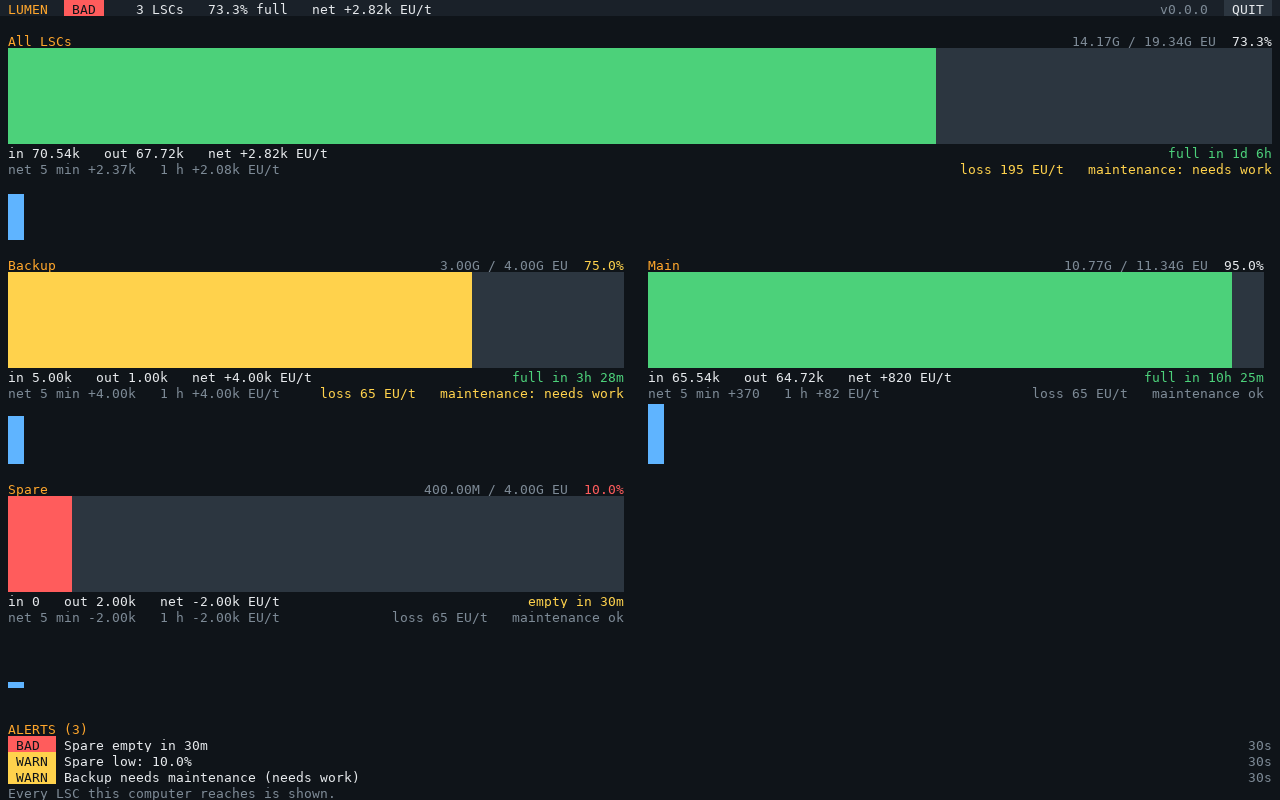
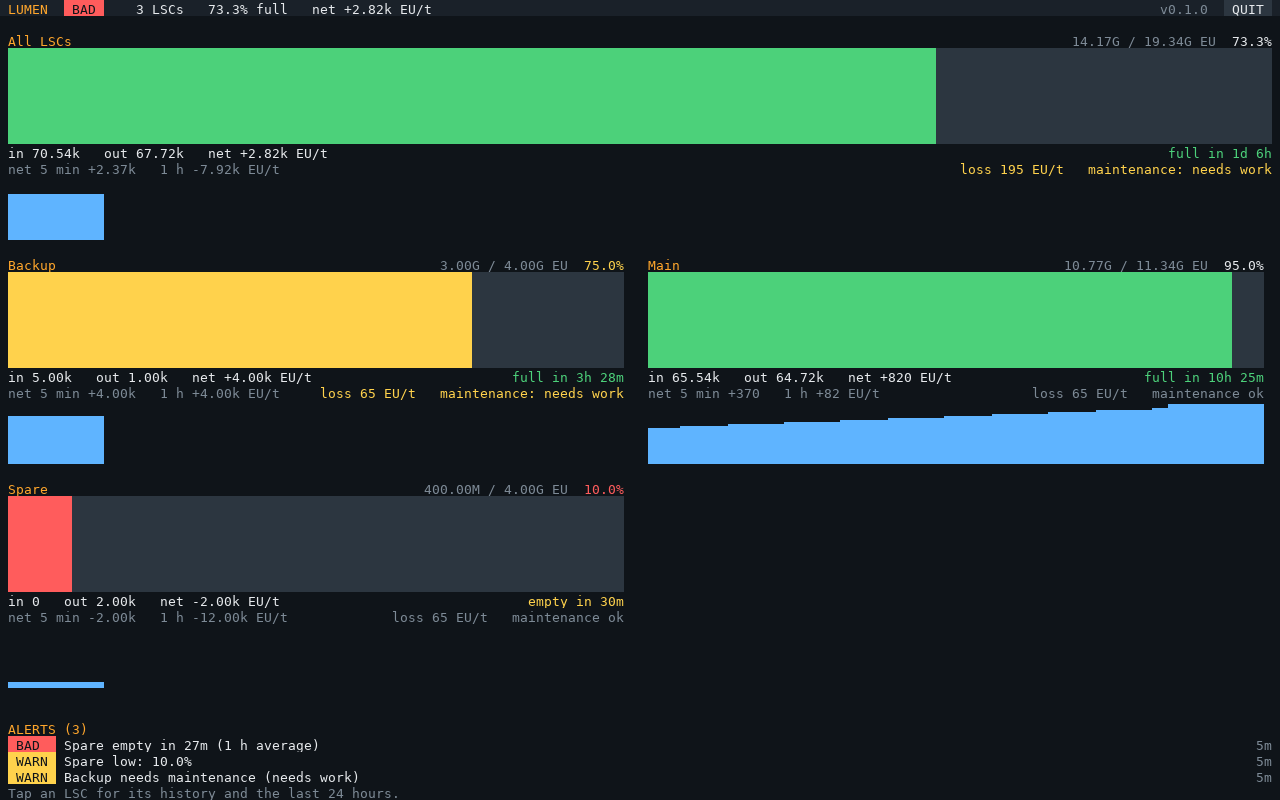
Docs: switches, sources, the LSC page, alerts and their waits, lumen-setup

diff --git a/docs/configuration.md b/docs/configuration.md
@@ -1,8 +1,9 @@
 # Configuration
 
-`/home/lumen.cfg` is optional: anything you leave out takes its default. Start from
-[`config/lumen.example.cfg`](../config/lumen.example.cfg) (installed as `/home/lumen.example.cfg`). It's a
-Lua file returning a table; `lumen` checks it at start and names any setting that's wrong.
+`/home/lumen.cfg` is optional: anything you leave out takes its default. **`lumen-setup`** writes it (and keeps
+what it doesn't ask about); [`config/lumen.example.cfg`](../config/lumen.example.cfg) (installed as
+`/home/lumen.example.cfg`) shows every setting. It's a Lua file returning a table; `lumen` checks it at start and
+names any setting that's wrong.
 
 | Setting | Default | Meaning |
 |---|---|---|
@@ -13,25 +14,86 @@ Lua file returning a table; `lumen` checks it at start and names any setting tha
 | `criticalFill` | `10` | Bad below this % full |
 | `drainWarnHours` | `4` | Warn when an LSC is draining and will be empty within this many hours |
 | `drainBadHours` | `1` | Bad when it will be empty within this many hours |
-| `drainAverage` | `"1h"` | Which net the drain alerts use: the LSC's `"5s"`, `"5m"` or `"1h"` average. The 1 hour average rides out generators that cycle (a vacuum reactor's off cycle); `"5s"` warns soonest but on every dip |
+| `drainAverage` | `"1h"` | For LSCs without a [switch](#switches): which net the drain alerts use, the LSC's `"5s"`, `"5m"` or `"1h"` average. The 1 hour average rides out short dips; `"5s"` warns soonest but on every dip |
+| `inputDrop` | `nil` | Warn when an LSC's input over 5 minutes is this % below its hour's (a generator stopped). Not while a switch is off or switched in the last hour. Leave `nil` if generators cycle by themselves |
+| `maxPassiveLoss` | `nil` | Warn when an LSC's passive loss is above this many EU/t |
+| `heatWarn`, `heatBad` | `25`, `50` | Warn / bad when an IC2 reactor's heat is at this % of its max |
 | `beep` | `true` | Beep once when a bad alert appears (or a warning becomes bad) |
 | `lensPort` | `nil` | Report to LENS on this port (LENS's default is `4243`). `nil` means no reporting. Needs a network card |
 | `lensNode` | `"lumen"` | This computer's name in LENS. Give each LUMEN computer its own |
 | `lensToken` | `nil` | The LENS hub's token, if it has one |
+| `sources` | `{}` | Generators to show, [below](#sources) |
+| `control` | `{}` | Switches, [below](#switches) |
+
+## Sources
+
+GT generators show under POWER when listed here; IC2 reactors show by themselves (list one to name it).
+
+```lua
+sources = {
+  { address = "a1b2c3d4", name = "LFTR", alwaysOn = true },
+  { address = "eeee0000", name = "Vac nuke" },
+},
+```
+
+| Key | Meaning |
+|---|---|
+| `address` | The start of its adapter's component address (`lumen-discover` lists them) |
+| `name` | Its name on screen, in alerts and in LENS |
+| `alwaysOn` | Warn when it hasn't run for 5 minutes (not while a switch has it off) |
+
+What LUMEN reads: a GT generator's `isMachineActive()`, recipe progress, and from its sensor lines its EU/t and
+maintenance problems when they say; a reactor's heat and EU/t. [Architecture](architecture.md#whats-verified-in-game)
+says which of these have been seen in game.
+
+## Switches
+
+How switches behave: [setup](setup.md#switches).
+
+```lua
+control = {
+  { name = "Vac nuke", redstone = "5e1f0000", side = "north", onBelow = 30, offAbove = 90, source = "Vac nuke" },
+  { name = "LFTR", machine = "a1b2c3d4", lsc = "Main", onBelow = 50, offAbove = 95 },
+},
+```
+
+| Key | Default | Meaning |
+|---|---|---|
+| `name` | | Its name on screen, in alerts and in LENS |
+| `redstone` | | The start of a Redstone I/O block's or card's address: switch with a signal. Or: |
+| `machine` | | The start of a GT machine's address: switch its work (never an LSC) |
+| `side` | | Redstone: `"bottom"`, `"top"`, `"north"`, `"south"`, `"west"`, `"east"` (or 0-5) |
+| `invert` | `false` | Redstone: a signal means off |
+| `strength` | `15` | Redstone: the signal's strength when on |
+| `onBelow`, `offAbove` | | On below this % full, off above this % |
+| `lsc` | all LSCs | Follow one LSC, by name |
+| `source` | | The source it switches: warns when on and it isn't running, or off and it is |
+| `minSwitch` | `60` | Seconds to wait after switching before switching again |
 
 ## Alerts
 
-| Alert | Level |
-|---|---|
-| An LSC can't be read (unloaded chunk, broken adapter) | bad |
-| Below `criticalFill` % / below `lowFill` % | bad / warn |
-| Draining at the `drainAverage` net, and empty within `drainBadHours` / `drainWarnHours` | bad / warn |
-| Maintenance needed | warn |
-| No LSC found | warn |
+Each alert must last a while before it's raised, so a blip doesn't set one off, and stays a minute after the
+problem goes.
 
-The time to empty on screen is the LSC's own figure, which follows the last few seconds. When the LSC
-doesn't give one, LUMEN works it out from the 5-minute net. The drain alerts use the `drainAverage` net
-instead, so a short dip doesn't raise them; the low-fill alerts still catch a real shortage.
+| Alert | Level | Raised after |
+|---|---|---|
+| An LSC can't be read (unloaded chunk, broken adapter) | bad | 15 s |
+| Below `criticalFill` % / below `lowFill` % | bad / warn | 30 s |
+| Empty within `drainBadHours` / `drainWarnHours` (below) | bad / warn | 5 min |
+| An LSC needs maintenance | warn | at once |
+| Input down by `inputDrop` % (when set) | warn | 5 min |
+| Passive loss above `maxPassiveLoss` (when set) | warn | 1 min |
+| A reactor at `heatBad` % / `heatWarn` % of its max heat | bad / warn | at once |
+| A source can't be read / needs maintenance | warn | 30 s / 1 min |
+| An `alwaysOn` source stopped | warn | 5 min |
+| A switch can't be found or switched | bad | 15 s |
+| A switch is on but its source isn't running, or off but it is | warn | 5 min |
+| No LSC found | warn | at once |
+
+**Empty within:** for an LSC with switches (its own, or ones following all LSCs), nothing while one is off in
+AUTO (the generators come on at its mark); once all have been on 10 minutes, the rate since they came on. A
+switch set OFF by hand doesn't count. For other LSCs, the `drainAverage` net. The time to empty on the panel is
+the LSC's own figure, which follows the last few seconds.
 
 ## Reporting to LENS
 
@@ -47,20 +109,32 @@ With `lensPort` set, LUMEN sends LENS a snapshot after every reading, using the 
 | `lumen_fill_ratio` | 0..1 | Stored / capacity |
 | `lumen_input_eut`, `lumen_output_eut`, `lumen_net_eut` | EU/t | In, out, and in minus out: the LSC's 5-second averages |
 | `lumen_net_5m_eut`, `lumen_net_1h_eut` | EU/t | In minus out over 5 minutes, and over 1 hour |
-| `lumen_drain_seconds` | s | Time until empty at the `drainAverage` net (what the drain alerts use); nothing while that net isn't negative |
+| `lumen_drain_seconds` | s | Time until empty, as the drain alerts judge it ([above](#alerts)); nothing while not draining, or on standby |
 | `lumen_full_seconds` / `lumen_empty_seconds` | s | Time until full or empty: the LSC's own figure, which follows the last few seconds |
+| `lumen_in_24h_eu`, `lumen_out_24h_eu` | EU | In and out over the last 24 hours |
+
+Sources have a `source` label and switches a `switch` label:
+
+| Metric | Unit | Meaning |
+|---|---|---|
+| `lumen_source_up` | | 1 when the source can be read, else 0 |
+| `lumen_source_active` | | 1 while it runs |
+| `lumen_source_output_eut` | EU/t | What it makes (when it says) |
+| `lumen_reactor_heat_ratio` | 0..1 | A reactor's heat over its max |
+| `lumen_switch_on` | | 1 while the switch has its generators on |
+| `lumen_switch_auto` | | 1 on AUTO, 0 when set by hand |
 
 LUMEN's alerts go to LENS too, and its health is the worst alert's level.
 
-A power bar for the LENS HUD, and a panel, in `/home/lens-hub.cfg`:
+In `/home/lens-hub.cfg` (LENS 0.3), a panel and HUD lines; [LENS's examples](https://github.com/aharabedian/lens/blob/main/docs/examples.md)
+have more:
 
 ```lua
-hud = { bars = {
-  { label = "Power", value = "lumen_stored_eu / lumen_capacity_eu", percent = true, warnBelow = 0.25, badBelow = 0.1 },
-} },
 panels = {
-  { label = "Power stored", value = "lumen_stored_eu / lumen_capacity_eu", percent = true, warnBelow = 0.25, badBelow = 0.1 },
-  { label = "Net EU/t", value = "lumen_net_eut", unit = "EU/t" },
+  { label = "Power", value = "sum(lumen_stored_eu) / sum(lumen_capacity_eu)", format = "percent",
+    warnBelow = 0.25, badBelow = 0.1 },
+  { label = "Vac nuke", text = "{h} heat", values = { h = 'max(lumen_reactor_heat_ratio{source="Vac nuke"})' },
+    format = "percent", status = { { "good", 'sum(lumen_switch_on{switch="Vac nuke"}) > 0' } } },
 },
 ```
 

diff --git a/docs/architecture.md b/docs/architecture.md
@@ -5,6 +5,7 @@
 | Program (`src/`) | Does |
 |---|---|
 | `lumen.lua` | The power screen. The event loop only: the work is in `lumen.app` |
+| `lumen-setup.lua` | Guided setup: writes `/home/lumen.cfg` and `.shrc` (`lumen.setup.*`) |
 | `lumen-discover.lua` | Lists components with every method and doc; `--read` shows what the read-only ones return (`lumen.discover`) |
 | `lumen-update.lua` | Installs and updates from GitHub what `manifest.lua` lists. Self-contained: it installs the modules |
 
@@ -15,16 +16,22 @@ path, forget cached `lumen.*` modules, and say "run lumen-update" if they're mis
 
 | Module | Does |
 |---|---|
-| `lumen.app` | The program's state: reads every `interval`, alerts, beep, history (30 s samples), redraw, LENS |
+| `lumen.app` | The program's state: every `interval`, reads LSCs and sources, runs the switches, history, alerts, beep, redraw, LENS; saves state every 5 minutes and on exit |
 | `lumen.power` | Finds LSCs (`gt_machine` whose `getName()` is `multimachine.supercapacitor`, checked once per address) and reads them into readings; totals; durations |
-| `lumen.alerts` | Alerts from readings (pure), a tracker for when each started and which are new, health |
-| `lumen.screen` | Draws a model: header, panels, alerts. Builds a frame of row segments and sends the GPU only changed rows or segments |
+| `lumen.sources` | GT generators named in `sources`, and IC2 reactors (`reactor`, `reactor_chamber`) found by themselves. Read only |
+| `lumen.control` | Switches: decides on or off from the fill (marks, `minSwitch`, holding when unreadable), sets a redstone output or a GT machine's work, reads it back; manual modes. The only module that changes the game, and only what `control` names |
+| `lumen.history` | Fill at three ranges (30 s, 3 min and 9 min samples, 160 each) and hourly totals for 48 hours: EU in and out, peak draw, lowest fill, switches' time on; the net over a window |
+| `lumen.state` | `/home/lumen-state.cfg`: manual modes and history between runs; a real-time clock from a file's modification time |
+| `lumen.alerts` | Alerts from readings, sources and switches (pure), with a hold each; the drain judgement (`alerts.drain`); a tracker that raises after the hold and clears a minute after; health |
+| `lumen.screen` | Draws a model: the header, then `lumen.pages.main` (panels, POWER, alerts) or `lumen.pages.detail` (one LSC). Sends the GPU only changed rows or segments |
+| `lumen.frame` | A frame of row segments and touch targets, and widgets: buttons, bars, charts |
 | `lumen.config` | `/home/lumen.cfg`: defaults and checks |
 | `lumen.telemetry` | Optional reporting to LENS (lens/1) |
 | `lumen.gui` | Palette and GPU helpers (the same as PRISM's and LENS's) |
 | `lumen.lens.metrics`, `lumen.lens.codec` | **Vendored from LENS**, byte for byte: never edit here. Change LENS, then `tools/sync-lens.sh` (a test compares them with `../lens`) |
 | `lumen.discover` | Component reports, and reading every read-only method (named get/is/has, documented as taking no arguments) |
 | `lumen.lsc` | Reads an LSC's `getSensorInformation` lines: stored, capacity, fill %, averages (5 s / 5 min / 1 h), time to full/empty, maintenance, capacitor counts |
+| `lumen.setup.steps`, `.render`, `.input` | `lumen-setup`'s questions, the commented `lumen.cfg` it writes, and terminal prompts |
 | `lumen.version` | The release string; `lumen-update` keeps its own copy (a test checks) |
 
 ## What's verified in game
@@ -40,4 +47,9 @@ The tests run against `tests/mocks/oc.lua`. This table says which of its behavio
 | `getSensorInformation` lines are `kekztech.infodata.…` keys, then values, split by `\\`, with `§` codes and thousands commas: `eu_stored`, `used_capacity` (`95.00%`), `total_capacity` (each also as `1.08x10^10`), `passive_loss`, `eu_in`, `eu_out`, `avg_eu_in/out.sec` (value, then seconds: 5), `.min5`, `.hour1`, `time_to.full` (`10.42 hours`), `multi.maintenance_status.ok`, `wireless_mode.disabled`, `capacitors` (tier, count) ×4, `wireless_eu` ×2. `tests/test_lsc.lua` holds them verbatim | Seen in game (2026-11-12) |
 | `time_to.empty`, other time units, and the maintenance key when something needs fixing | Assumed (not seen yet) |
 | `getSensorInformation` raises (or returns nothing) when the LSC's chunk is unloaded or the multiblock is broken | Assumed: LUMEN shows "can't be read" either way |
+| A **redstone** component (Redstone I/O block or card) has `getOutput(side)` and `setOutput(side, value)`, sides 0-5 (bottom, top, north, south, west, east), values 0-15 | OpenComputers' documented API; not yet tried with LUMEN |
+| `setWorkAllowed(false)` on a GT generator's controller stops it, and `isWorkAllowed()` reads it back | Assumed (the methods are seen on an LSC; LUMEN never calls them on one) |
+| A GT generator (an LFTR, turbines) answers `isMachineActive`, `getWorkProgress`, `getWorkMaxProgress`; its sensor lines say its EU/t in a line with "EU/t" and output / generates / produces, and maintenance as "Problems: n" or a `maintenance_status` key | Assumed: LUMEN shows "–" when a line isn't there. Run `lumen-discover --read` on an LFTR to confirm |
+| An IC2 reactor is component `reactor` (or `reactor_chamber`) with `getHeat`, `getMaxHeat`, `getReactorEUOutput`, `producesEnergy` | Assumed (OpenComputers' IC2 driver). Run `lumen-discover reactor` and `lumen-discover --read reactor` |
+| `filesystem.lastModified` returns real-world milliseconds, so history survives a restart | Assumed: without it, history starts again on each run |
 | `math.random(m, n)` doesn't return an integer (the mock returns floats) | Seen in game (PRISM and LENS) |

diff --git a/docs/setup.md b/docs/setup.md
@@ -6,6 +6,8 @@
 |---|---|
 | A computer (tier 2 or better) with a GPU and screen | The display. A **tier 3** screen and GPU give the full layout (160 × 50); tier 2 works (80 × 25). Big multi-block screens look best with a lower `resolution` ([configuration](configuration.md)) |
 | An **adapter** on each LSC's controller block | How the computer reads the LSC. The adapter touches the controller, and the computer or a cable connects to the adapter |
+| Adapters on generators (optional) | To show them under POWER: a GT generator's controller (an LFTR, turbines...) or an IC2 reactor |
+| A **Redstone I/O** block or redstone card (optional) | For a [switch](#switches) that runs generators by a redstone signal. A GT generator can be switched through its adapter instead |
 | An Internet Card | To install and update. You can take it out afterwards |
 | A network card (optional) | Only to report to [LENS](https://github.com/aharabedian/lens) |
 
@@ -24,14 +26,14 @@ This installs the programs in `/home/bin` and the modules in `/home/lib/lumen`, 
 
 ## Run
 
-1. `lumen-discover --read` lists every LSC the computer reaches, with its address. Use it to check the
-   adapters are connected.
-2. Optional: `cp /home/lumen.example.cfg /home/lumen.cfg` and `edit /home/lumen.cfg` to name the LSCs, change
-   the alert levels or turn on LENS reporting ([configuration](configuration.md)). Without a config file,
-   LUMEN uses the defaults.
-3. Run **`lumen`**. Tap **QUIT** or press Ctrl+C to stop.
+1. **`lumen-setup`** finds the LSCs, generators, reactors and redstone components the computer reaches and
+   asks: names, which generators to show, [switches](#switches), alert levels, LENS, and starting on boot. It
+   shows the file before saving `/home/lumen.cfg` (the old one is kept as `lumen.cfg.bak`). Run it again any
+   time; Enter keeps what's there. Everything it writes is in [configuration](configuration.md).
+2. Run **`lumen`**. Tap **QUIT** or press Ctrl+C to stop.
 
-To start it on boot, add a line `lumen` to `/home/.shrc`.
+Without a config file, LUMEN shows every LSC with the default alerts. `lumen-discover --read` shows what an
+LSC or generator reports, to check the adapters are connected.
 
 ## The screen
 
@@ -46,11 +48,42 @@ To start it on boot, add a line `lumen` to `/home/.shrc`.
   - time to full or empty, as the LSC itself works it out
   - the net over 5 minutes and over 1 hour, passive loss, and maintenance status
   - **a fill history chart** in whatever rows are left (one sample every 30 s, the last 80 minutes)
-- **Alerts:** bad ones first, each with how long it has lasted. They clear themselves when the problem goes
-  away. A new bad alert beeps once.
+- **POWER** (with sources or switches): a row per switch (ON or OFF, why, for how long, and **AUTO / ON /
+  OFF**) and per source (running or idle, EU/t, a reactor's heat, recipe progress, maintenance problems).
+- **Alerts:** bad ones first, each with how long it has lasted. They clear themselves a minute after the
+  problem goes away. A new bad alert beeps once.
 
 ![Three LSCs, with alerts](images/lumen-three.png)
+
+![A vacuum reactor on a switch](images/lumen-control.png)
+
+**Tap an LSC** (or All LSCs) for its page: fill history over **80 MIN**, **8 H** or **24 H**, its averages over 5 s,
+5 min and 1 h, time to full or empty, passive loss, maintenance, wireless, capacitors, and **the last 24 hours**
+against the 24 before: EU in and out, the highest draw and when, the lowest fill, and how long each switch was
+on. **BACK** returns. History survives a restart (in `/home/lumen-state.cfg`).
+
+![An LSC's page](images/lumen-detail.png)
 
 On a tier 2 screen, panels keep the essentials:
 
 ![Tier 2](images/lumen-tier2.png)
+
+## Switches
+
+A switch turns generators **on when the LSCs fall below one mark and off above another** (30% and 90%, say),
+and leaves them alone in between so they don't flicker. It's either:
+
+- **A redstone signal** from a Redstone I/O block (or a redstone card), on one side. Wire it to whatever runs
+  the generators: an SFM setup that runs a vacuum reactor, a reactor's redstone port, a machine's enable.
+  `invert = true` when a signal means *stop*.
+- **A GT machine's work switch**, through its adapter (the same as its controller's soft mallet). LUMEN never
+  switches an LSC.
+
+It follows all the LSCs together, or one (`lsc`). When LUMEN starts it reads the output as it is, so a restart
+never flips anything; it waits a minute between switches; and while it can't read the LSCs it holds. **ON** and
+**OFF** on the screen override it (kept across restarts) until **AUTO**.
+
+**Alerts know about switches.** While a switch has its generators off and the LSC is above its on mark, draining
+is expected: no drain alert, and the panel says *standby*. Once they've been on for 10 minutes, the drain alert
+judges the rate since they came on, so it means "on, and still not keeping up". A switch with a `source` also
+warns when it's on and that source isn't running, or off and it still is.

diff --git a/README.md b/README.md
@@ -8,8 +8,9 @@ A sibling of [PRISM](https://github.com/aharabedian/prism) (item routing) and
 [LENS](https://github.com/aharabedian/lens) (base-wide monitoring). Like PRISM, LUMEN runs on its own and
 can report to a LENS hub.
 
-> Status: before the first release. **`lumen`** shows every LSC a computer reaches on one screen, with
-> alerts, and can report to LENS. Generators come later.
+**`lumen`** shows every LSC a computer reaches on one screen, with history and alerts that don't cry wolf; shows
+generators and IC2 reactors; switches generators on and off with the LSCs' fill (a redstone signal or a GT
+machine); and can report to LENS.
 
 ![LUMEN on a tier 3 screen](docs/images/lumen-three.png)
 
@@ -30,11 +31,12 @@ wget -f https://raw.githubusercontent.com/aharabedian/lumen/main/src/lumen-updat
 /home/lumen-update
 ```
 
-Then run **`lumen`**. What you need, configuration and the screen: [docs/setup.md](docs/setup.md).
+Then **`lumen-setup`**, and run **`lumen`**. What you need, switches and the screen: [docs/setup.md](docs/setup.md).
 
 | Program | Does |
 |---|---|
-| `lumen` | The power screen: every LSC's fill, flows, time to full or empty, history, and alerts. Optionally reports to LENS |
+| `lumen` | The power screen: every LSC's fill, flows, time to full or empty, history and the last 24 hours; generators and reactors; switches; alerts. Optionally reports to LENS |
+| `lumen-setup` | Asks about your LSCs, generators, switches, alerts and LENS, and writes `/home/lumen.cfg` |
 | `lumen-discover` | Lists components and their methods; `--read` shows what an LSC (or any GT machine) reports |
 | `lumen-update` | Installs and updates LUMEN |
 
@@ -42,8 +44,8 @@ Then run **`lumen`**. What you need, configuration and the screen: [docs/setup.m
 
 | | |
 |---|---|
-| [Setup](docs/setup.md) | Hardware, install, running, the screen |
-| [Configuration](docs/configuration.md) | Every setting, the alerts, LENS metrics and a HUD example |
+| [Setup](docs/setup.md) | Hardware, install, running, the screen, switches |
+| [Configuration](docs/configuration.md) | Every setting, sources, switches, the alerts, LENS metrics |
 | [Architecture](docs/architecture.md) | Programs, modules, and what's been verified in game |
 
 ## Development

diff --git a/CLAUDE.md b/CLAUDE.md
@@ -33,18 +33,18 @@ make screens                      # render the screens the tests draw to PNGs (P
 - A new file in `src/` or `lib/` goes in `manifest.lua` (a test checks).
 - **`lib/lumen/lens/` is vendored from LENS** (`../lens`): never edit it here; change LENS, then
   `tools/sync-lens.sh` (a test checks they match when `../lens` exists).
-- **Never call anything that changes the game** while monitoring: LSCs are only read (`get…`). The mock LSC
-  raises if `setWorkAllowed` is called.
+- **Only `lumen.control` changes the game**, and only the redstone outputs and GT machines `control` names
+  (never an LSC). Everything else only reads. The mock LSC raises if `setWorkAllowed` is called.
 - **Docs move with code**, in the same change (table in `CONTRIBUTING.md`). Tables over prose; link, don't repeat.
 
 ## Layout
 
 ```
-src/        programs: lumen.lua (the screen), lumen-discover.lua, lumen-update.lua
-lib/lumen/  modules (lens/ is vendored from LENS)
+src/        programs: lumen.lua (the screen), lumen-setup.lua, lumen-discover.lua, lumen-update.lua
+lib/lumen/  modules: pages/ (the screen's pages), setup/ (lumen-setup), lens/ (vendored from LENS)
 config/     lumen.example.cfg
 manifest.lua  every file the updater installs
 docs/       setup, configuration, architecture (with the in-game verification table), images/
-tests/      run.lua, helper.lua, mocks/ (oc, net, lsc), test_*.lua
+tests/      run.lua, helper.lua, mocks/ (oc, net, lsc, gen), test_*.lua
 tools/      setup-dev.sh, sync-lens.sh, render_screens.py
 ```
